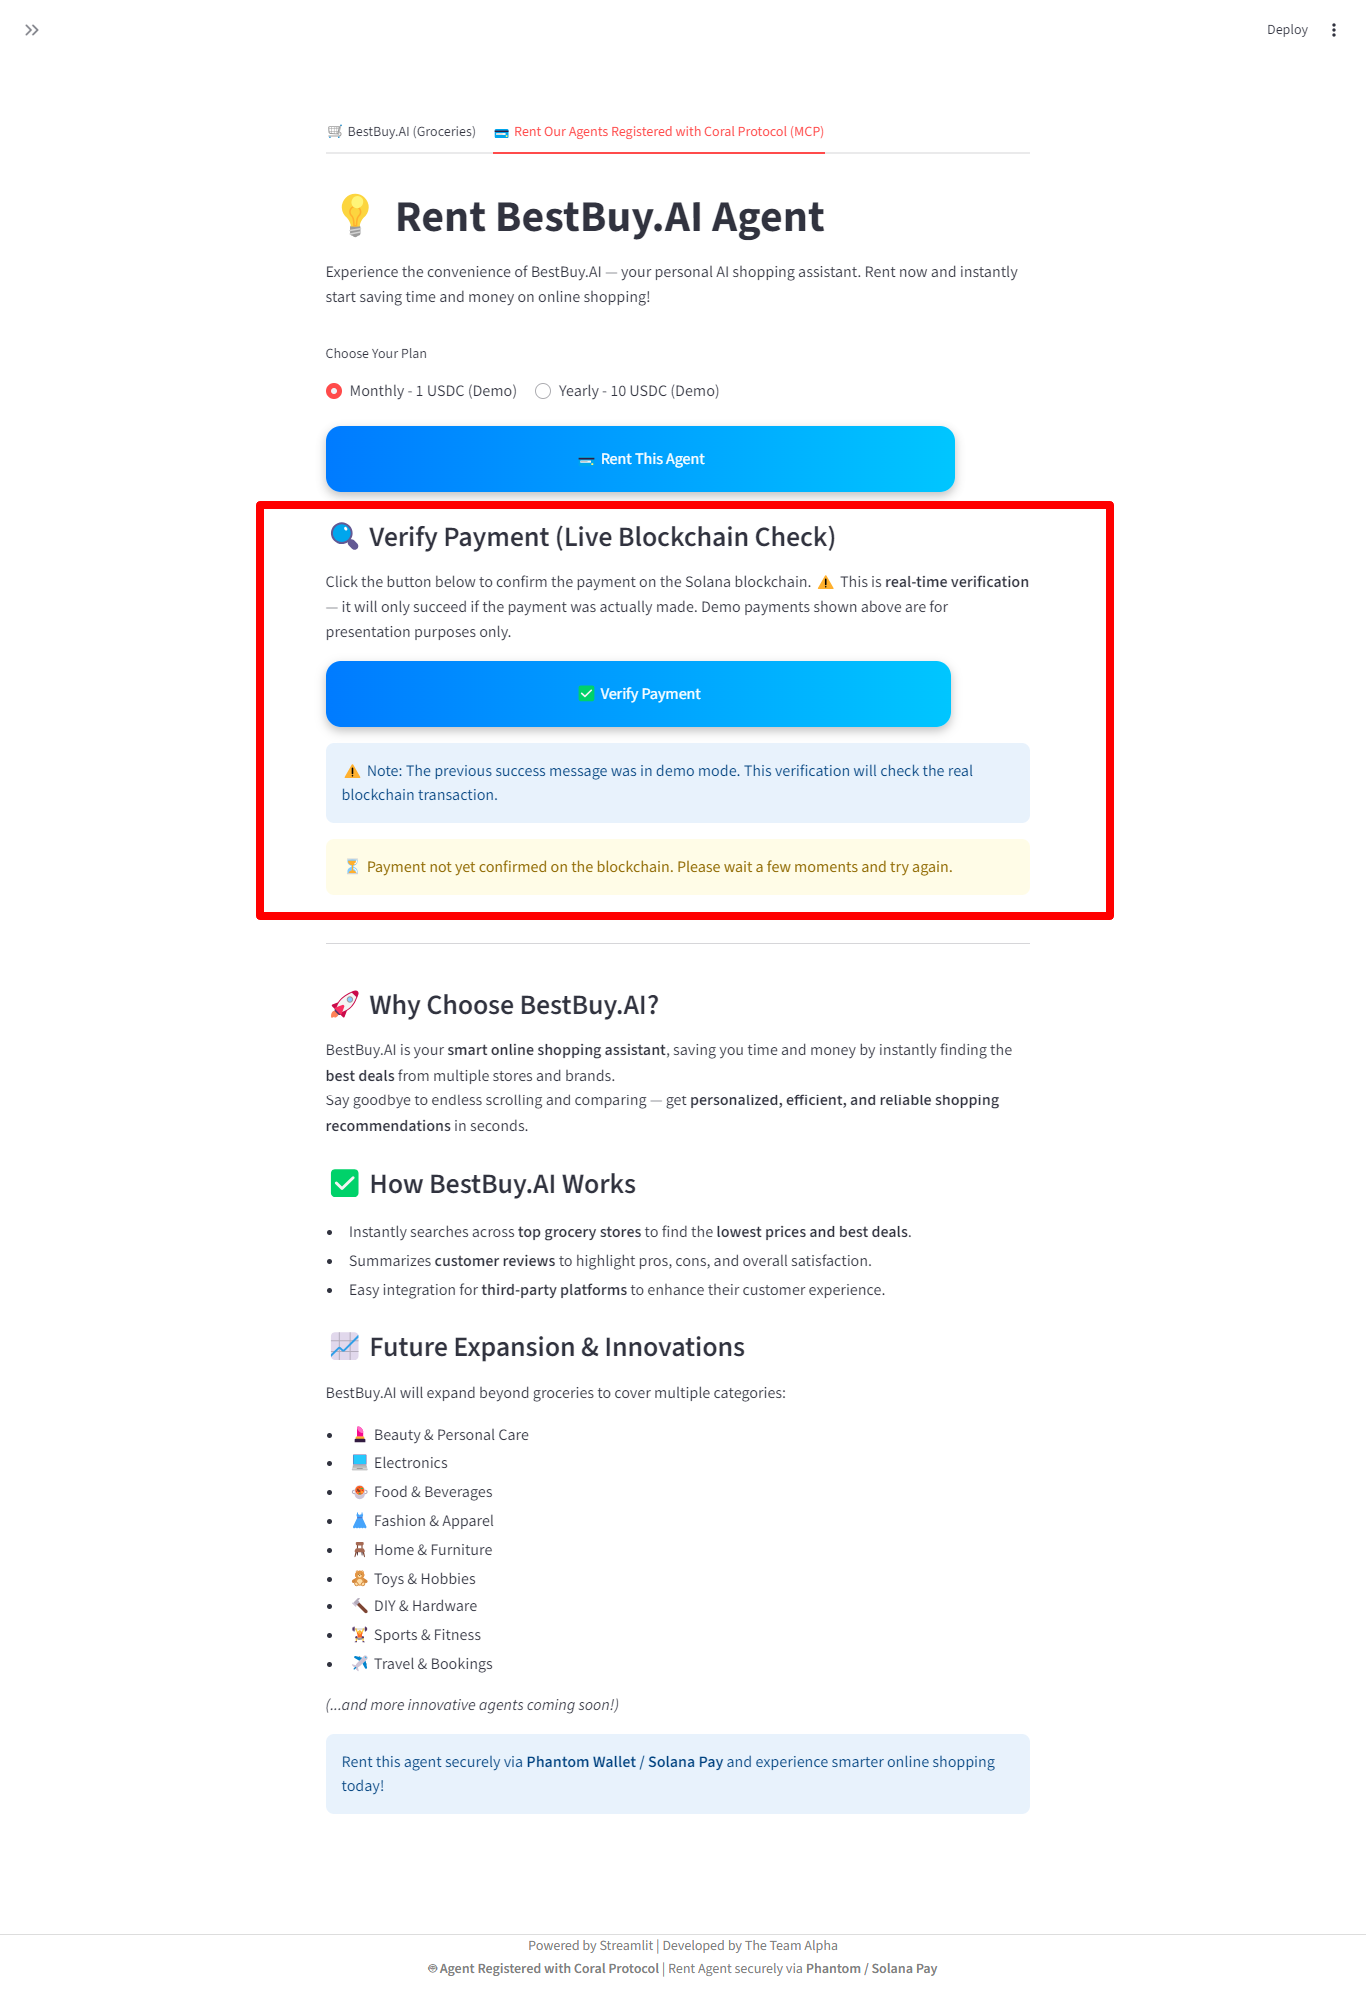
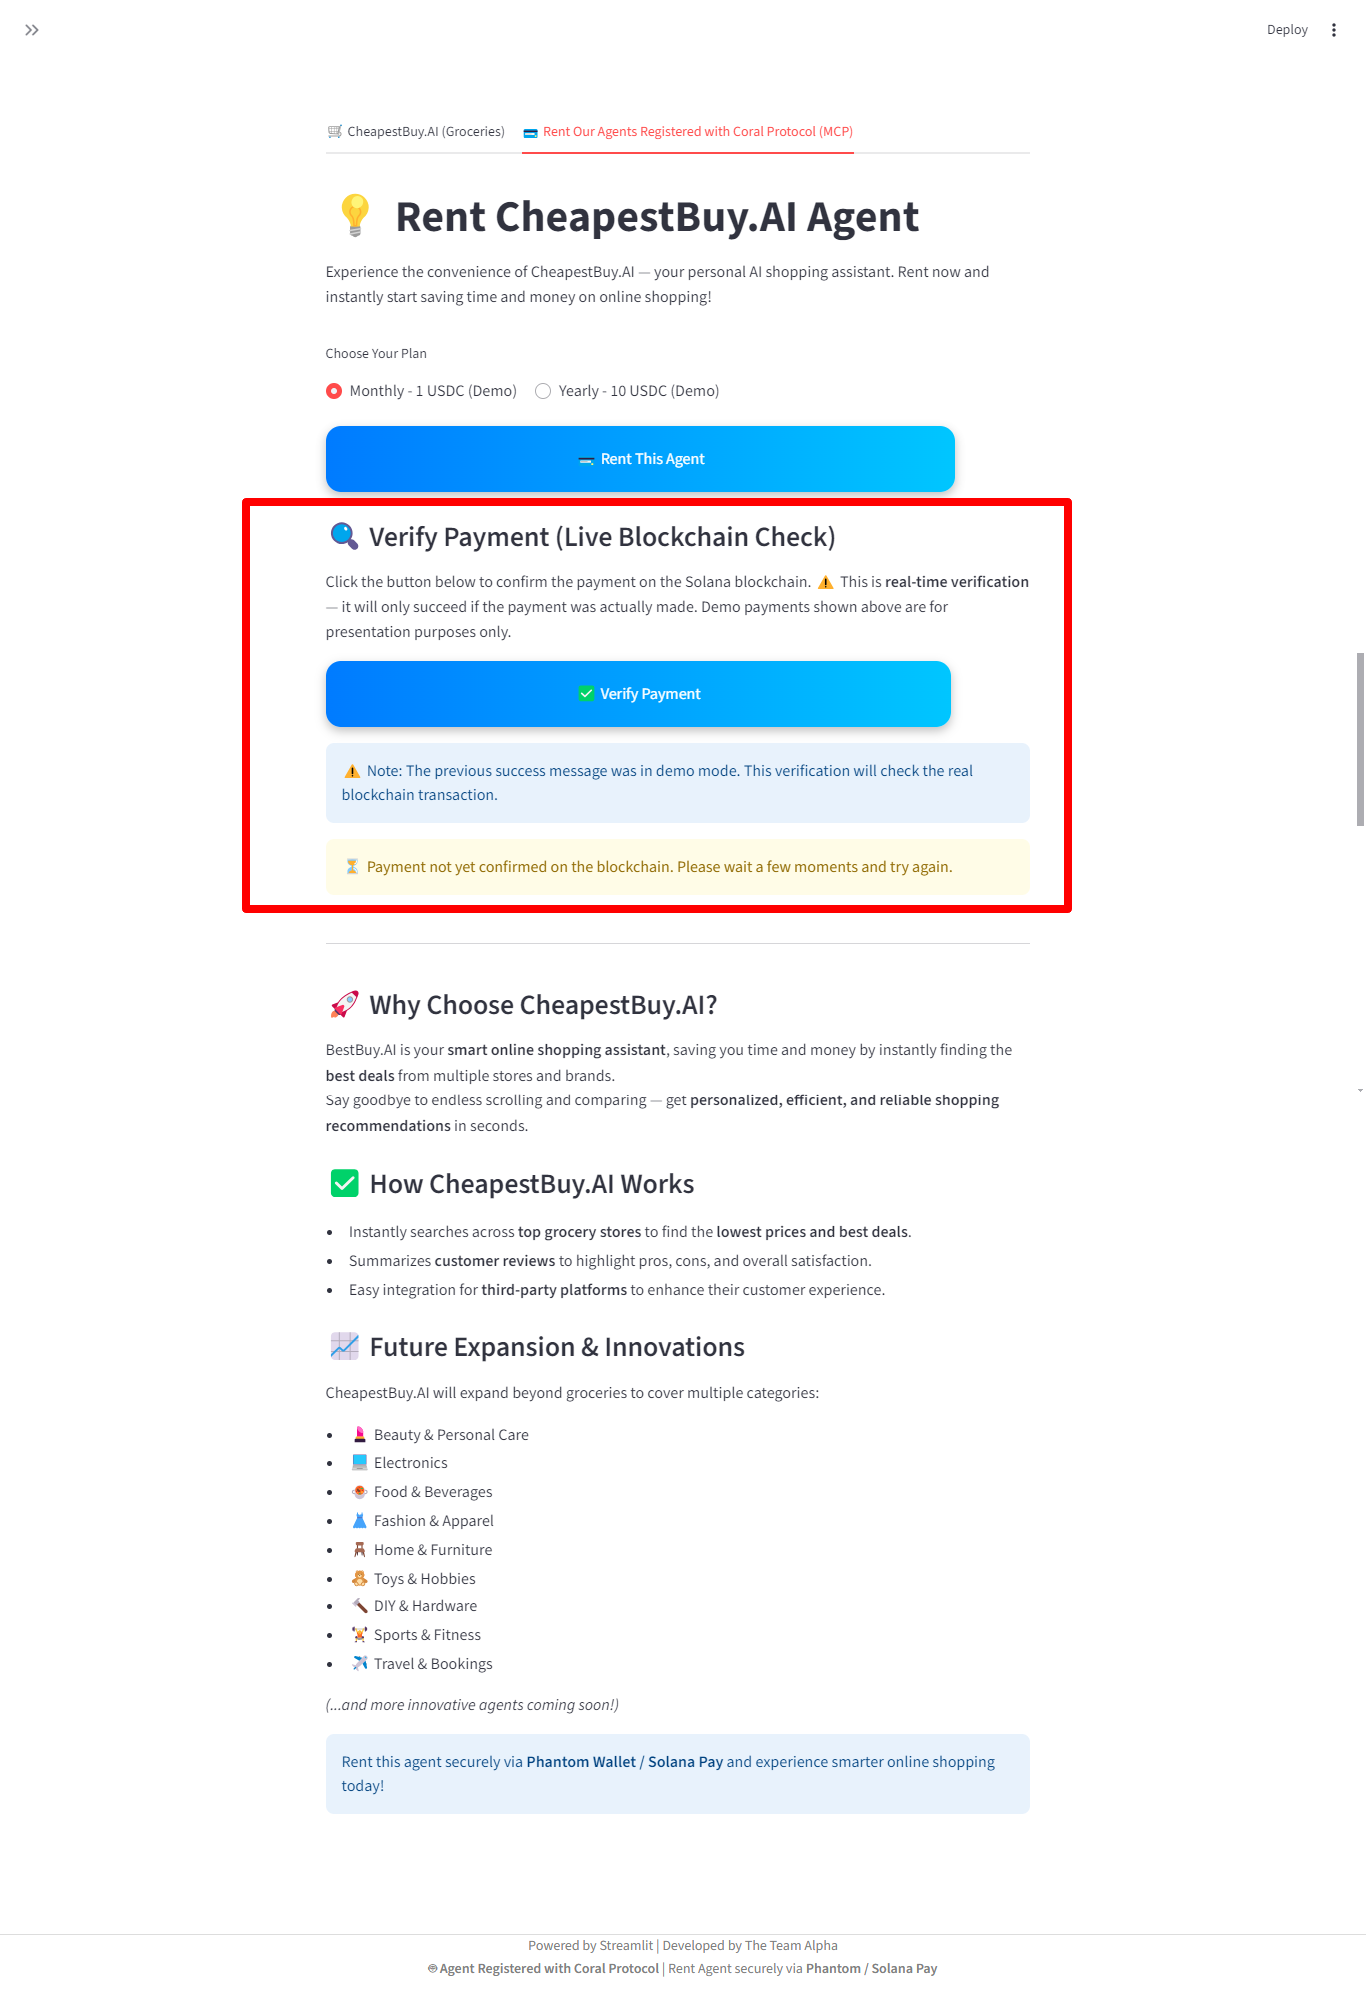
final

diff --git a/app.py b/app.py
@@ -319,7 +319,7 @@ st.markdown(
 
 # Tabs
 tabs = st.tabs([
-    "🛒 BestBuy.AI (Groceries)",   # Tab 0: Main grocery search
+    "🛒 CheapestBuy.AI (Groceries)",   # Tab 0: Main grocery search
     "💳 Rent Our Agents Registered with Coral Protocol (MCP)"           # Tab 1: Payment / agent rental
 ])
 
@@ -340,7 +340,7 @@ with tabs[0]:
         st.markdown(
             """
             <div style='line-height: 1.2;'>
-                <h1 style='margin-bottom: 5px;'>🛒 BestBuy.AI</h1>
+                <h1 style='margin-bottom: 5px;'>🛒 CheapestBuy.AI</h1>
                 <p style='margin-top: 0; font-size: 24px; color: gray;'>
                     Buy Groceries Smarter - Save More
                 </p>
@@ -459,9 +459,9 @@ with tabs[0]:
 # --- Tab 2: Rent Our Agent ---
 with tabs[1]:
     st.session_state.current_tab = 1
-    st.title("💡 Rent BestBuy.AI Agent")
+    st.title("💡 Rent CheapestBuy.AI Agent")
     st.write(
-        "Experience the convenience of BestBuy.AI — your personal AI shopping assistant. "
+        "Experience the convenience of CheapestBuy.AI — your personal AI shopping assistant. "
         "Rent now and instantly start saving time and money on online shopping!"
     )
     # --- Custom Button CSS ---
@@ -513,18 +513,18 @@ with tabs[1]:
             st.success(f"✅ Payment Successful for {plan}! Thank you for renting BestBuy.AI (Demo Mode)")
             st.info(
                 """
-                🎉 **Your BestBuy.AI agent is now ready to use!**
+                🎉 **Your CheapestBuy.AI agent is now ready to use!**
 
                 **Here’s what you can do next:**
                 - Access your agent instantly online via your personal dashboard or a secure platform link.
                 - Integrate the agent into your website with our embed widget (HTML snippet provided upon request).
                 - Need help or want a custom setup? Contact our team:
 
-                **Email:** support@bestbuy.ai  
+                **Email:** support@team_alpha.com
                 **Phone:** +92-300-XXXXXXX  
-                **Website:** [www.bestbuy.ai](https://www.bestbuy.ai)
+                **Website:** [www.bestbuy.ai](https://www.cheapestbuy.ai)
 
-                ⚠ **No download required** — BestBuy.AI runs securely in the cloud.
+                ⚠ **No download required** — CheapestBuy.AI runs securely in the cloud.
                 """
             )
             
@@ -565,14 +565,14 @@ with tabs[1]:
     st.divider()
 
     # Why Choose BestBuy.AI
-    st.subheader("🚀 Why Choose BestBuy.AI?")
+    st.subheader("🚀 Why Choose CheapestBuy.AI?")
     st.write("""
     BestBuy.AI is your **smart online shopping assistant**, saving you time and money by instantly finding the **best deals** from multiple stores and brands.  
     Say goodbye to endless scrolling and comparing — get **personalized, efficient, and reliable shopping recommendations** in seconds.
     """)
 
     # Our Solution
-    st.subheader("✅ How BestBuy.AI Works")
+    st.subheader("✅ How CheapestBuy.AI Works")
     st.write("""
     - Instantly searches across **top grocery stores** to find the **lowest prices and best deals**.  
     - Summarizes **customer reviews** to highlight pros, cons, and overall satisfaction.  
@@ -582,7 +582,7 @@ with tabs[1]:
     # Future Growth
     st.subheader("📈 Future Expansion & Innovations")
     st.write("""
-    BestBuy.AI will expand beyond groceries to cover multiple categories:
+    CheapestBuy.AI will expand beyond groceries to cover multiple categories:
 
     - 💄 Beauty & Personal Care  
     - 💻 Electronics  
